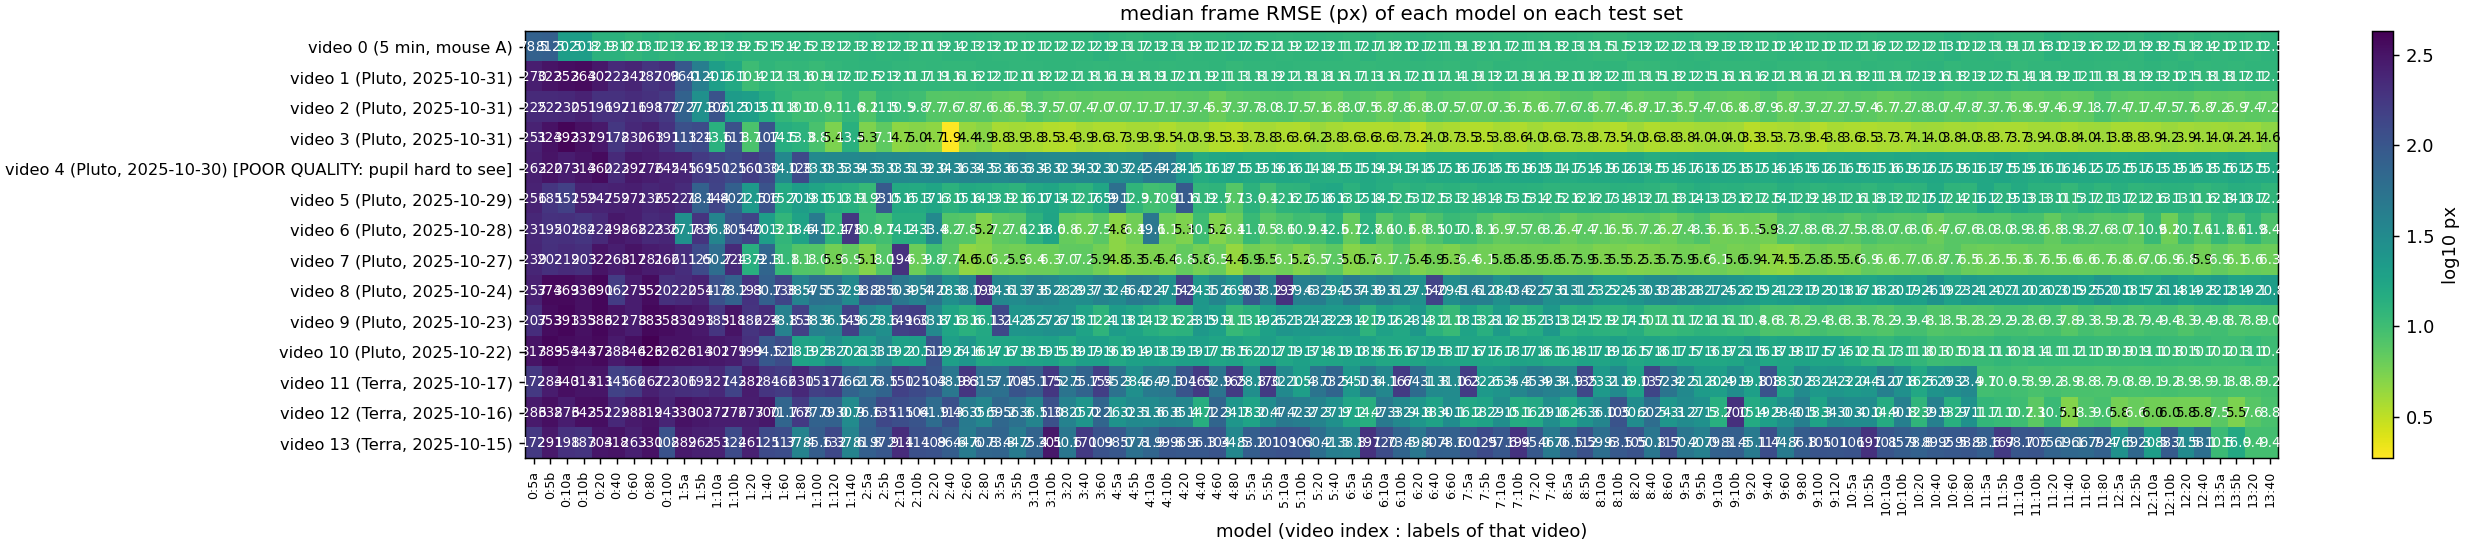
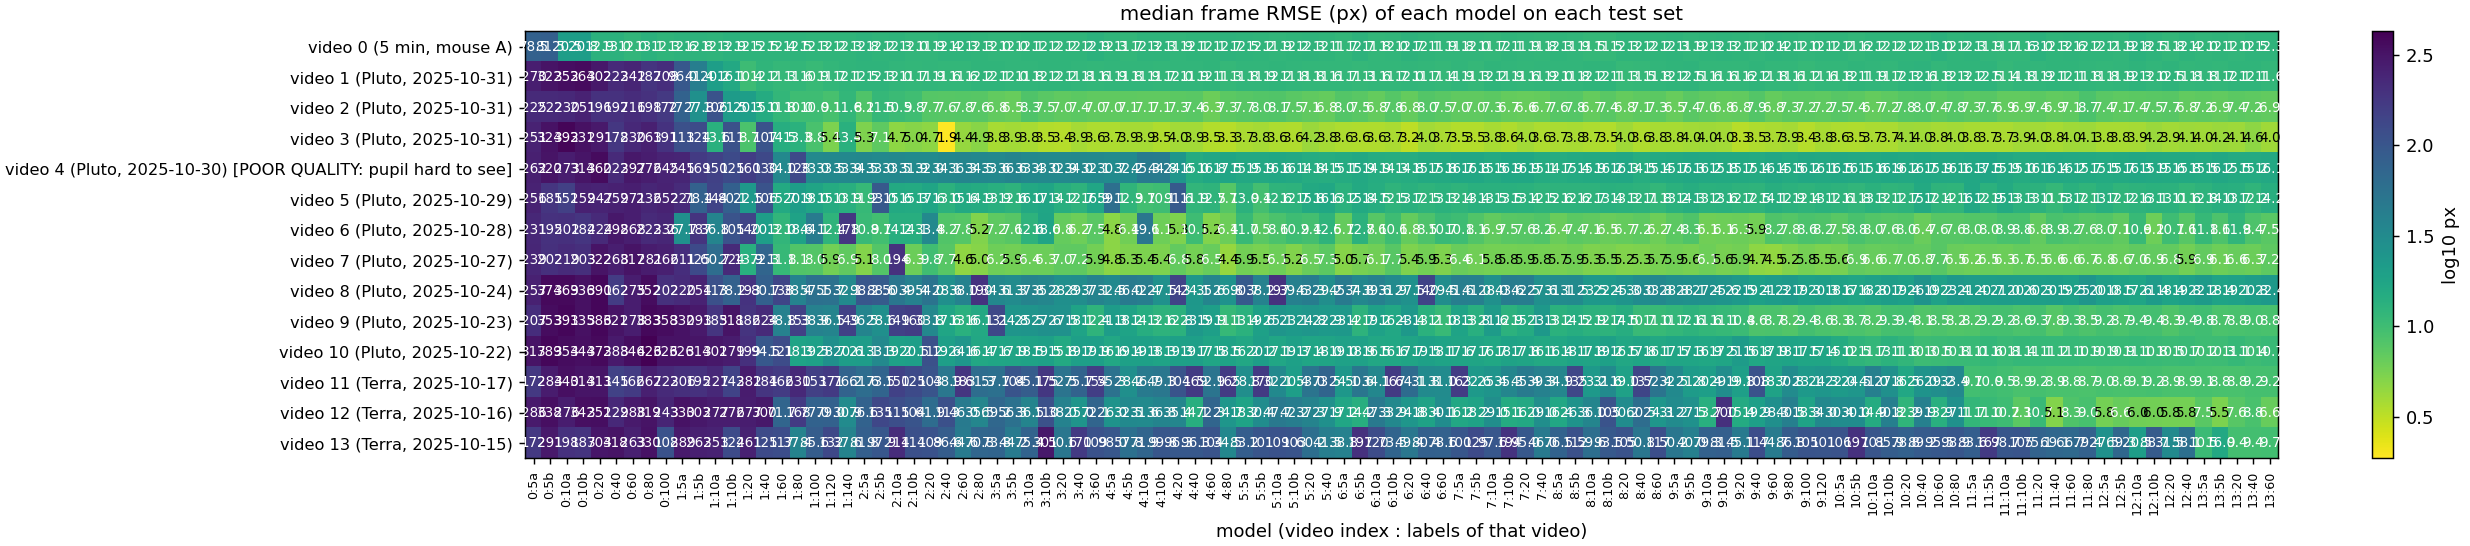
Video 13: step-3 whole-video prediction and batch-4 selection redone after the permission failure (4740 of 57158 flagged; batch 4 not labeled, rule fired); cross-video evaluation with model 1413; fewer-labels 10a = 11.24 px
Claude-Session: https://claude.ai/code/session_01FTvbKQF7C9X9WWpwtvXgZ4

Changed region(s): [[0.2182, 0.1868, 0.9352, 0.9341], [0.2182, 0.1245, 0.9352, 0.1557], [0.2182, 0.0623, 0.9352, 0.0934]]

diff --git a/v2_new_pupil_top_video_scaling/13_20251015_Terra_spont_1/results/README.md b/v2_new_pupil_top_video_scaling/13_20251015_Terra_spont_1/results/README.md
@@ -13,7 +13,7 @@ in total) + this video's labels; shuffles 1411, 1412, ...
 | 0 (video-11 40-label model 1212, applied unchanged) | 69.13 px | 116.6 | 56% | 24% | – |
 | 20 (shuffle 1411) | 9.43 px | 16.0 | 0% | 86% | 4260 of 57158 (7.5%) |
 | 40 (shuffle 1412) | 9.44 px | 14.1 | 0% | 93% | 4719 of 57158 (8.3%) |
-| 60 (shuffle 1413) | 9.67 px | 13.9 | 0% | 93% | pending |
+| 60 (shuffle 1413) | 9.67 px | 13.9 | 0% | 93% | 4740 of 57158 (8.3%); batch 4 selected but not labeled |
 
 The model that fitted video 12 (the day after, 5.13 px) does not fit this day: 69 px at 0 labels, more than half of
 the test frames above 50 px. The other models of videos 11 and 12 give 31.5-79.4 px on this test set
@@ -22,7 +22,7 @@ the test frames above 50 px. The other models of videos 11 and 12 give 31.5-79.4
 **Fewer-labels study (started 2026-10-05)**: step 1 retrained with 5 or 10 of batch01's 20 labels (two subsets each,
 training set otherwise as at the time: the 580 carried labels; shuffles 2131-2134). Size of the first batch only; no
 jump selection followed. So far: 5 labels = 10.46 / 16.03 px (subsets a / b; p90 30.4 / 68.4; 8% / 12% of frames > 50 px) against
-69.13 px at 0 labels and 9.43 px at 20; the two 10-label subsets are queued.
+69.13 px at 0 labels and 9.43 px at 20; 10 labels = 11.24 px (subset a; p90 16.7; 2% of frames > 50 px); subset 10b running (2026-10-06).
 
 Step 2 (40 labels): 9.44 px, no gain over the running best 9.43 px (step 1): one flat step by the rule (2026-10-05 22:43). The p90 improved
 from 16.0 to 14.1 px and the share of confident keypoints from 86% to 93%, but the median did not move.
